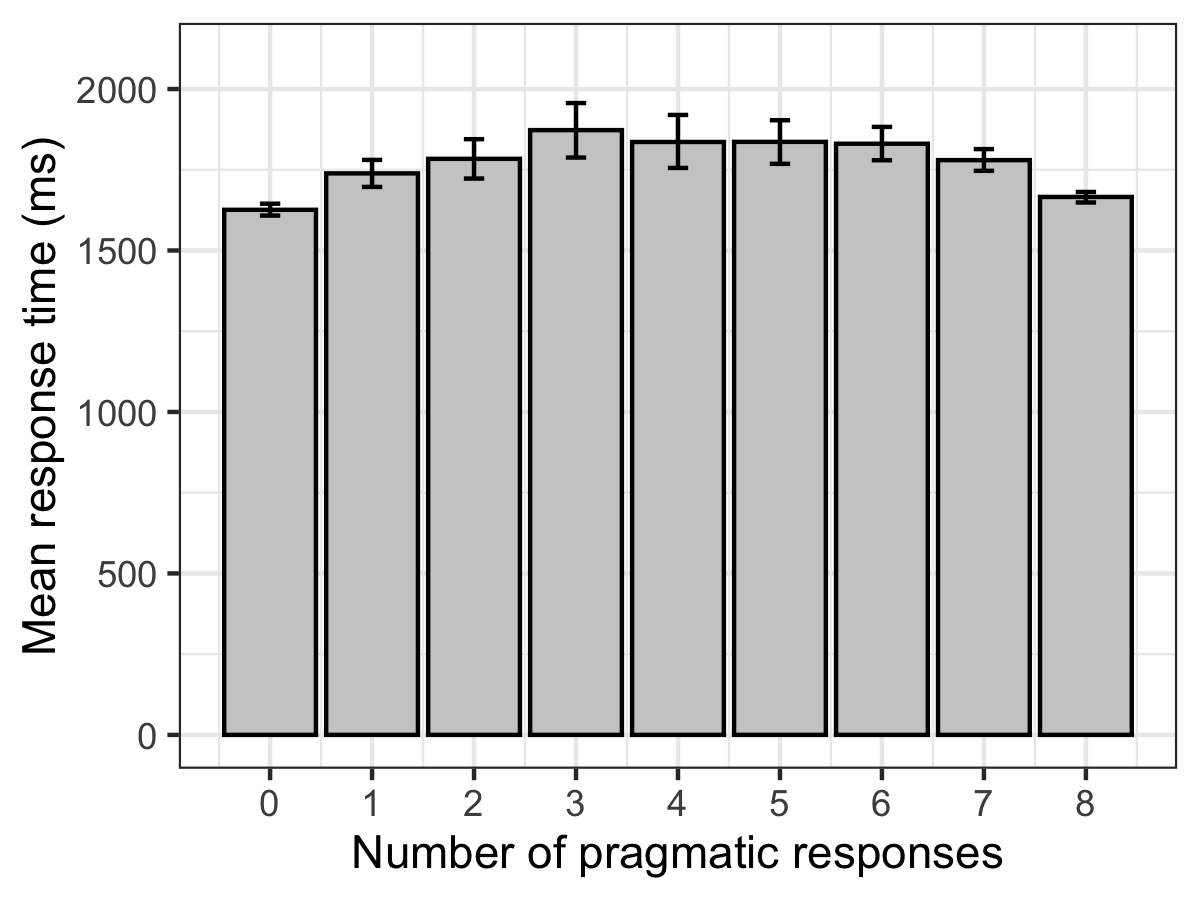
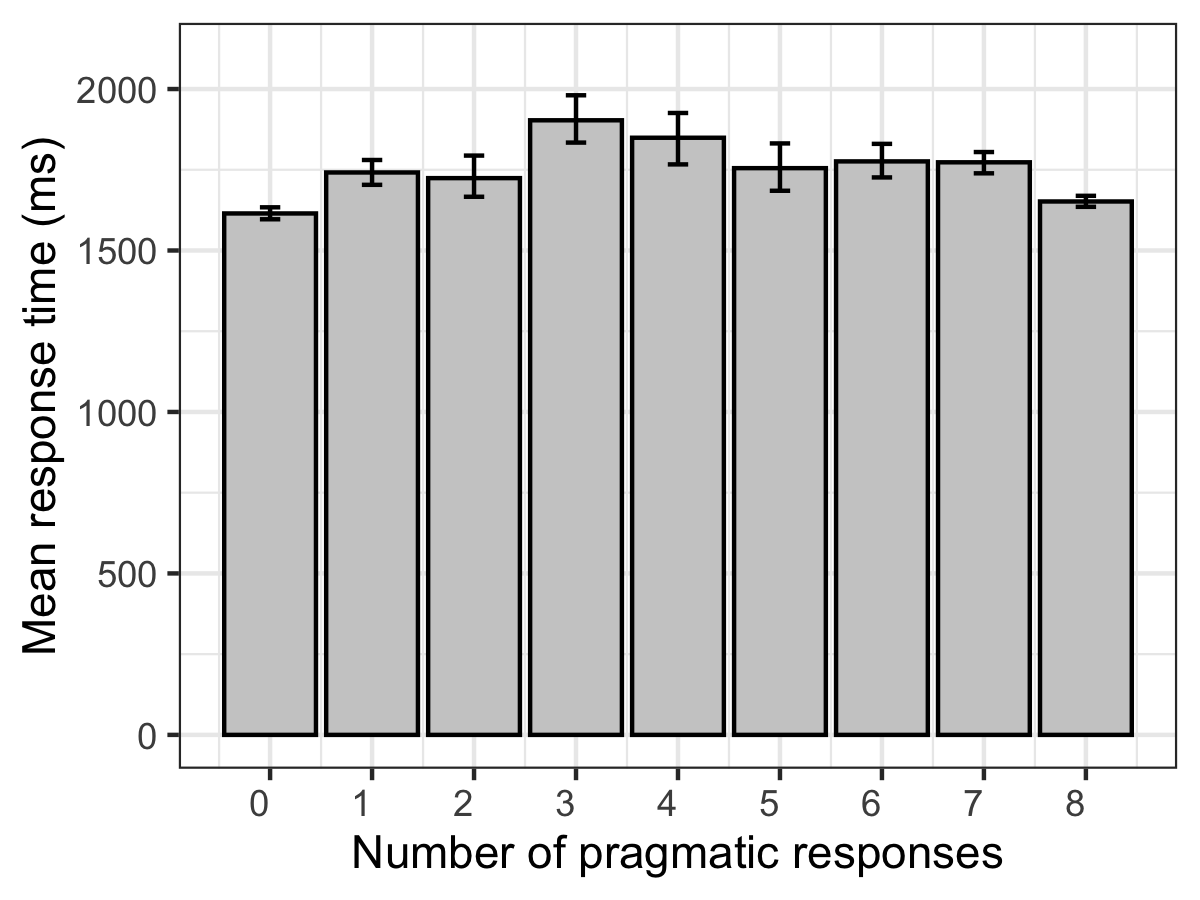
paper numbers updated

diff --git a/papers/cogsci2020/si_context_rt.tex b/papers/cogsci2020/si_context_rt.tex
@@ -61,10 +61,10 @@
 
 \title{Probability and processing speed of scalar inferences is context-dependent}
  
-% \author{{\large \textbf{Leyla Kursat}  {\normalfont and} \textbf{Judith Degen}}  \\
-%  \{lkursat, jdegen\}@stanford.edu \\
-%   Department of Linguistics, Stanford University \\
-%   Stanford, CA 94305, USA}
+\author{{\large \textbf{Leyla Kursat}  {\normalfont and} \textbf{Judith Degen}}  \\
+ \{lkursat, jdegen\}@stanford.edu \\
+  Department of Linguistics, Stanford University \\
+  Stanford, CA 94305, USA}
 
 %\author{{\large \textbf{names}}  \\
 % \{names\}@school\\
@@ -112,7 +112,6 @@ In both experiments, participants' interpretations were probed using the gumball
 Under the costly inference account, literal responses should always be faster than pragmatic responses, regardless of the contextual information participants are provided with. This is indeed the result reported by \citeNP{BottNoveck2004}. In contrast, under the constraint-based account, the more the context supports the inference (as measured in proportions of pragmatic responses), the faster participants should be to provide a pragmatic response and  the slower they should be to provide a literal response. Conversely, the weaker the contextual support for the inference, the slower the pragmatic response should be, and the faster the literal one. The strongest test of the constraint-based account would be evidenced in a response time pattern whereby pragmatic responses are faster than literal responses, which to our knowledge has not been previously demonstrated. Note an attractive feature of the constraint-based account: it links the processing effort involved in computing both pragmatic \emph{and} literal interpretations to the contextual support for the interpretation, rather than treating the processing of literal content as a monolith.
 
 
-
 \begin{figure}
 \centering
 \fbox{\includegraphics[width=.6\columnwidth]{./img/gumballs2.png}}
@@ -141,14 +140,8 @@ Under the costly inference account, literal responses should always be faster th
   
     
 In studies that use truth-value judgment tasks to probe scalar inferences, participants typically complete multiple critical trials of the kind described above \cite{NoveckPosada2003,BottNoveck2004,DegenTanenhaus2015,JasbiEtAl2019}. Participants don't always respond consistently across critical trials \cite<see>[for a detailed response consistency analysis]{DegenTanenhaus2015}, which has led researchers to categorize participants as either ``pragmatic'' or ``literal'' responders and conduct responder type analyses to investigate whether participants' varying response strategies result in varying processing strategies. For instance, \citeNP{DegenTanenhaus2016} found that pragmatic responders were more strongly affected by the experimental manipulation of number term presence than literal responders, who tended to wait for disambiguating information before fixating on target regions of the display. We include such post hoc responder type analyses in our response time analyses. Specifically, we treat responder type as an additional variable that may influence processing times by providing latent contextual support for one over another interpretation: if being a pragmatic responder increases the latent contextual support for the pragmatic response, these responses should be faster than literal responses; conversely for literal responders. 
-
   
-
-
 Within each experiment, we followed \citeNP{Degen2013} in manipulating contextual support for the inference via an experiment-level implicit QUD invoked by a cover story that either made the stronger alternative more relevant (\textit{all}-QUD condition, more support for scalar inference) or less relevant (\textit{any}-QUD condition, less support for scalar inference). 
-
-
-
 
 
 %Participants were assigned to one of the two conditions (\textit{all}-QUD, \textit{any}-QUD) which differed in the cover story they were presented with at the beginning of the experiment (see Table \ref{tab:coverstories}). 
@@ -185,10 +178,9 @@ Within each experiment, we followed \citeNP{Degen2013} in manipulating contextua
 
 In Exp.~1 we tested whether the QUD  modulates the probability of a scalar inference and whether the QUD and participants' responder type jointly modulate the speed with which pragmatic and literal interpretations are processed. Sentences on critical trials included \emph{some} in its partitive form, which has previously been shown to support the inference \cite{Degen2015}.
 
-Procedure, materials, analyses and exclusions were pre-registered on OSF and will be available upon publication along with data and experiment scripts.
+Procedure, materials, analyses and exclusions were pre-registered at https://osf.io/49uqm.
 
 
-    
 \subsection{Methods}
 
 \noindent \textbf{Participants.} We recruited 800 participants on Amazon's Mechanical Turk. Participants were required to have a US-based IP address and a minimal approval rating of 95\%. %They were paid \$2.30 (approximately \$14/hr). 
@@ -196,14 +188,9 @@ Procedure, materials, analyses and exclusions were pre-registered on OSF and wil
 \noindent \textbf{Materials and procedure.} On each trial, participants saw a display of a gumball machine with 13 gumballs in the upper chamber and an empty lower chamber. After 4 seconds, some number of gumballs moved to the lower chamber (Fig.~\ref{fig:gumball-paradigm}) and a voice reported how many gumballs were distributed. Participants' task was to indicate whether they `agree' or `disagree' with the statement by pressing the F or J key as quickly as possible. The pre-recorded statement was of the form \emph{You got X gumballs}, where X was a quantifier (\textit{some of the},  \textit{all of the}, \textit{none of the}, or a number between 1 and 13). The quantifier and the number of gumballs that dropped to the lower chamber varied.
   
 Before proceeding to the main body of the experiment, participants read a cover story to induce an implicit QUD (see Table \ref{tab:coverstories} for cover stories). They completed a scripted demonstration that introduced a gumball store worker who will be fired if he either fails to re-fill a gumball machine when it's empty (\emph{all}-QUD condition) or if he fails to fix a machine if it's not dispensing gumballs (\emph{any}-QUD condition). To ensure that participants paid attention to the cover story, they were asked a multiple-choice question about the condition under which the store worker will be fired. If participants answered this question incorrectly, they were presented with the cover story again and repeated the demonstration. Halfway through the experiment, participants were asked to answer the multiple-choice question again. This was done to prevent the decay of the implicit QUD over time.  
-  
-
-
-
+ 
 
 There were 4 practice trials with \textit{all} and \textit{none}. On half of these trials, the statements were correct and on the other half they were incorrect. After the practice trials, participants completed 72 experimental trials (see Table \ref{tab:stimuli}). On 32   trials, the expected answer was `agree', on another 32 trials, the expected answer was `disagree'. The remaining 8 trials were  critical trials on which all 13 gumballs dropped to the lower chamber and participants heard the partitive scalar statement \emph{You got some of the gumballs}. To reiterate, if participants pressed J to agree with the statement, they interpreted it literally; if they pressed F to disagree, they interpreted it pragmatically.
-
-
 
 
   \begin{table}
@@ -223,7 +210,7 @@ There were 4 practice trials with \textit{all} and \textit{none}. On half of the
   \end{table}
   
   
-\noindent \textbf{Exclusions.} We excluded participants who were self-reported non-native English speakers (n=26), participants who incorrectly answered the second comprehension question more than twice (n=21) and participants with accuracy lower than 85\% on non-critical trials (n=185). Only responses to critical trials are reported below. These exclusions had no qualitative effect on the results discussed below.
+\noindent \textbf{Exclusions.} We excluded participants who were self-reported non-native English speakers (n=20), participants who incorrectly answered the second comprehension question more than twice (n=17) and participants with accuracy lower than 85\% on non-critical trials (n=235). Only responses to critical trials are reported below. These exclusions had no qualitative effect on the results discussed below.
 
 %\noindent \textbf{Analysis and predictions} Only responses on critical trials were  analyzed here and in Exp.~2. We conducted three types of analyses to address the two questions of interest. 
 %\begin{enumerate}
@@ -239,8 +226,7 @@ There were 4 practice trials with \textit{all} and \textit{none}. On half of the
 \subsection{Results and discussion}
 
 
-
-\noindent \textbf{Judgments.} Proportion of pragmatic responses on critical trials are shown on the left in Figure~\ref{fig:judgments}. We observed a main effect of QUD such that there were more pragmatic responses in the \textit{all}-QUD condition (78\%) compared to the \textit{any}-QUD condition (71\%, $\beta$=1.31, SE=0.52, p$<$.05), replicating previous QUD effects on scalar inference \cite{DegenGoodman2014,Zondervan2010}. 
+\noindent \textbf{Judgments.} Proportion of pragmatic responses on critical trials are shown on the left in Figure~\ref{fig:judgments}. We observed a main effect of QUD such that there were more pragmatic responses in the \textit{all}-QUD condition (78\%) compared to the \textit{any}-QUD condition (70\%, $\beta$=1.27, SE=0.53, p$<$.05), replicating previous QUD effects on scalar inference \cite{DegenGoodman2014,Zondervan2010}. 
 
 
 \begin{figure}
@@ -249,7 +235,7 @@ There were 4 practice trials with \textit{all} and \textit{none}. On half of the
   \caption{Proportion of pragmatic responses on partitive \emph{some of} (Exp.~1, left) and non-partitive \emph{some} (right, Exp.~2) critical trials. Error bars indicate bootstrapped 95\% confidence intervals. \label{fig:judgments}}
   \end{figure}
 
-\noindent \textbf{Analysis of variability in judgments.} The top panel of \figref{fig:proportion} shows the distribution of participants over number of pragmatic responses given on critical trials. Participants who either gave 0 or 8 pragmatic responses were completely consistent in their responses (62\%, of which 20\% completely literal and 80\% completely pragmatic). \figref{fig:proportion} reflects \figref{fig:judgments} and shows that the distribution of pragmatic responses in the \emph{all}-QUD condition is shifted towards the more pragmatic end of the continuum compared to the \emph{any}-QUD condition. Thus, while some participants were entirely consistent, there was also substantial inter-participant variability in consistency. For the purpose of the subsequent response time analyses, and following previous researchers \cite{BottNoveck2004,DegenTanenhaus2015}, we divided participants into two groups:  participants with more than 4 pragmatic responses were categorized as \emph{pragmatic} responders (74\%) and participants with fewer than 4 pragmatic responses were categorized as \emph{literal} responders (22\%). 15 participants (3\%) gave an equal number of pragmatic and literal responses and were excluded from the response time analysis.
+\noindent \textbf{Analysis of variability in judgments.} The top panel of \figref{fig:proportion} shows the distribution of participants over number of pragmatic responses given on critical trials. Participants who either gave 0 or 8 pragmatic responses were completely consistent in their responses (60\%, of which 19\% completely literal and 81\% completely pragmatic). \figref{fig:proportion} reflects \figref{fig:judgments} and shows that the distribution of pragmatic responses in the \emph{all}-QUD condition is shifted towards the more pragmatic end of the continuum compared to the \emph{any}-QUD condition. Thus, while some participants were entirely consistent, there was also substantial inter-participant variability in consistency. For the purpose of the subsequent response time analyses, and following previous researchers \cite{BottNoveck2004,DegenTanenhaus2015}, we divided participants into two groups:  participants with more than 4 pragmatic responses were categorized as \emph{pragmatic} responders (73\%) and participants with fewer than 4 pragmatic responses were categorized as \emph{literal} responders (23\%). 18 participants (3\%) gave an equal number of pragmatic and literal responses and were excluded from the response time analysis.
 
 
 \begin{figure}
@@ -259,7 +245,8 @@ There were 4 practice trials with \textit{all} and \textit{none}. On half of the
 \end{figure}
 
   
-\noindent \textbf{Response times.} Response times are shown in the top panels of \figref{fig:responsetimes}. We observed an interaction between QUD and response ($\beta$=-0.12, $SE$=0.03, $t$=-3.80, $p$$<$.0001). Simple effects analysis revealed that this interaction was driven by pragmatic responses being slower than literal responses under the \textit{any}-QUD ($\beta$=0.16, SE=0.04, t=4.26, p$<$.0001), while there was no difference in response times under the \textit{all}-QUD ($\beta$=-0.01, SE=0.04, t=-0.37, p$<$.72). We also observed an interaction between responder type and response ($\beta$=-0.27, SE=0.03, t=-8.14, p$<$.0001). Simple effects analysis revealed that this interaction was driven by pragmatic responses being faster than literal responses for \emph{pragmatic}  responders ($\beta$=-0.14, SE=0.04, t=-5.15, p$<$.0001) and pragmatic responses being slower than literal responses for \emph{literal} responders ($\beta$=0.16, SE=0.02, t=4.22, p$<$.0001). 
+\noindent \textbf{Response times.} Response times are shown in the top panels of \figref{fig:responsetimes}. We observed an interaction between QUD and response ($\beta$=-8.16, $SE$=3.40, $t$=-2.40, $p$$<$.05). Simple effects analysis revealed that this interaction was driven by pragmatic responses being slower than literal responses under the \textit{any}-QUD ($\beta$=6.70, SE=3.38, t=1.98, p$<$.05), while there was no difference in response times under the \textit{all}-QUD ($\beta$=-1.44, SE=3.59, t=3.75, p$<$.69). We also observed an interaction between responder type and response ($\beta$=-2.37, SE=3.25, t=-7.29, p$<$.0001). 
+Simple effects analysis revealed that this interaction was driven by pragmatic responses being faster than literal responses for \emph{pragmatic}  responders ($\beta$=-1.69, SE=3.07, t=-5.53, p$<$.0001) and pragmatic responses being slower than literal responses for \emph{literal} responders ($\beta$=6.70, SE=3.38, t=1.98, p$<$.05). 
 
 These results provide evidence against the costly inference account: rather than pragmatic responses being generally slower than literal responses, they were only so when given by literal responders or when given in response to the \emph{any}-QUD, which was found to provide less contextual support for the inference than the \emph{all}-QUD. Moreover, these results also excitingly show that pragmatic responses can even be faster than literal responses under certain conditions, namely when produced by pragmatic responders. These results are consistent with the constraint-based account. To test whether the contextual effects remain stable when overall decreasing the contextual support for the inference, we conducted Exp.~2.
 
@@ -274,7 +261,7 @@ Exp.~2 was identical to Exp.~1, with the exception that the sentence on critical
 
 \noindent \textbf{Materials and procedure.} The materials and procedure were identical to Exp.~1 except on critical trials, where participants heard the non-partitive statement \emph{You got some gumballs}.
 
-\noindent \textbf{Exclusions.} As in Exp.~1, we excluded non-native English speakers (n=21), participants who got the second comprehension question wrong more than twice (n=15), and participants that had accuracy lower than 85\% on non-critical trials (n=189).
+\noindent \textbf{Exclusions.} As in Exp.~1, we excluded non-native English speakers (n=19), participants who got the second comprehension question wrong more than twice (n=29), and participants that had accuracy lower than 85\% on non-critical trials (n=217).
 
 
 \begin{figure}
@@ -286,14 +273,22 @@ Exp.~2 was identical to Exp.~1, with the exception that the sentence on critical
 
 \subsection{Results}
 
-\noindent \textbf{Judgments.} Proportion of pragmatic responses on critical trials are shown on the right in Figure~\ref{fig:judgments}. We replicated the QUD effect found in Exp.~1: participants in the \textit{all}-QUD condition gave more pragmatic "disagree" responses (48\%) than participants in the \textit{any}-QUD condition (30\%, $\beta$=4.69, SE=0.80, p$<$.0001). However, as is evident from \figref{fig:proportion}, the rate of pragmatic responses was greatly reduced overall compared to Exp.~1. This was borne out in a mixed effects logistic regression where the data from both experiments was  pooled and sentence form added as a fixed effect predictor ($\beta$=7.16, SE=0.69, p$<$.0001), replicating previous studies \cite{DegenTanenhaus2015,Degen2015}.
+\noindent \textbf{Judgments.} Proportion of pragmatic responses on critical trials are shown on the right in Figure~\ref{fig:judgments}. We replicated the QUD effect found in Exp.~1: participants in the \textit{all}-QUD condition gave more pragmatic "disagree" responses (48\%) than participants in the \textit{any}-QUD condition (30\%, $\beta$=3.07, SE=0.63, p$<$.0001). However, as is evident from \figref{fig:proportion}, the rate of pragmatic responses was greatly reduced overall compared to Exp.~1. This was borne out in a mixed effects logistic regression where the data from both experiments was  pooled and sentence form added as a fixed effect predictor ($\beta$=5.89, SE=0.55, p$<$.0001), replicating previous studies \cite{DegenTanenhaus2015,Degen2015}. 
 
 
-\noindent \textbf{Analysis of variability in judgments.} The bottom panel of \figref{fig:proportion} shows the distribution of participants over number of pragmatic responses given on critical trials. Reflecting the average changes in  Fig~\ref{fig:proportion}, overall and in the \emph{any}-QUD condition, the distribution of  responses shifted towards the more literal end of the continuum compared to Exp.~1 and the \emph{all}-QUD condition.  44\% of participants were completely consistent in providing pragmatic responses compared to 20\% of participants who consistently responded literally. Overall, 37\% of participants were categorized as pragmatic responders and 60\% as literal responders. 15 participants (3\%) were excluded from the response time analysis because they gave equal number of pragmatic and literal responses.
+\noindent \textbf{Analysis of variability in judgments.} The bottom panel of \figref{fig:proportion} shows the distribution of participants over number of pragmatic responses given on critical trials. Reflecting the average changes in  Fig~\ref{fig:proportion}, overall and in the \emph{any}-QUD condition, the distribution of  responses shifted towards the more literal end of the continuum compared to Exp.~1 and the \emph{all}-QUD condition.  22\% of participants were completely consistent in providing pragmatic responses compared to 40\% of participants who consistently responded literally. Overall, 38\% of participants were categorized as pragmatic responders and 58\% as literal responders. 16 participants (3\%) were excluded from the response time analysis because they gave equal number of pragmatic and literal responses.
 
-\noindent \textbf{Response times.} Response times are shown in the bottom panels of \figref{fig:responsetimes}. We closely replicated the results from Exp.~1, both qualitatiively and quantiatively. In particular, we observed an interaction between QUD and response ($\beta$=-0.07, $SE$=0.03, $t$=-2.14, $p$$<$.05). Simple effects analysis revealed that this interaction was driven by pragmatic responses being slower than literal responses under the \textit{any}-QUD ($\beta$=0.08, SE=0.03, t=2.75, p$<$.007), while there was no difference in response times under the \textit{all}-QUD ($\beta$=0.03, SE=0.03, t=1.12, p$<$.27). We also observed an interaction between responder type and response ($\beta$=-0.27, SE=0.03, t=-8.38, p$<$.0001). Simple effects analysis revealed that this interaction was driven by pragmatic responses being faster than literal responses for \emph{pragmatic}  responders ($\beta$=-0.16, SE=0.03, t=-4.91, p$<$.0001) and pragmatic responses being slower than literal responses for \emph{literal} responders ($\beta$=0.09, SE=0.03, t=2.75, p$<$.007). 
+\noindent \textbf{Response times.} \lk{these effects are not significant anymore} Response times are shown in the bottom panels of \figref{fig:responsetimes}. We closely replicated the results from Exp.~1, both qualitatiively and quantiatively. In particular, we observed an interaction between QUD and response ($\beta$=-0.07, $SE$=0.03, $t$=-2.14, $p$$<$.05). Simple effects analysis revealed that this interaction was driven by pragmatic responses being slower than literal responses under the \textit{any}-QUD ($\beta$=0.08, SE=0.03, t=2.75, p$<$.007), while there was no difference in response times under the \textit{all}-QUD ($\beta$=0.03, SE=0.03, t=1.12, p$<$.27). We also observed an interaction between responder type and response ($\beta$=-0.27, SE=0.03, t=-8.38, p$<$.0001). Simple effects analysis revealed that this interaction was driven by pragmatic responses being faster than literal responses for \emph{pragmatic}  responders ($\beta$=-0.16, SE=0.03, t=-4.91, p$<$.0001) and pragmatic responses being slower than literal responses for \emph{literal} responders ($\beta$=0.09, SE=0.03, t=2.75, p$<$.007). 
 
 It would have been interesting to assess the effect of the partitive form on response times across the two experiments -- if the strong version of the constraint-based is right, the partitive should lead to faster pragmatic responses than the non-partitive form. Unfortunately, directly comparing the response time results from Exps.~1 and 2 is not  possible because of the different overall lengths of the audio files, which is reflected in the response times (partitive utterances were on average 132ms longer than non-partitive ones).
+
+\begin{figure}
+  \centering
+    \includegraphics[width=\columnwidth]{plots/consistency}
+    \caption{\lk{new plot} Response time as a function of response consistency.}
+    \label{fig:consistency}
+  \end{figure}
+
 %In order to compare the response times of participants from Exp.~1 and 2, we had to calculate each response time with respect to the length of the audio stimuli participants heard. For each experiment, we subtracted the length of the onset of the word "gumball" (Exp.~1: 868ms, Exp.~2: 736ms) from all response times. This ensured that response times \lk{XXX}. We were interested in whether the lack of the partitive would slow down pragmatic responses and speed up literal responses compared to its partitive counterpart. We analyzed the data using a mixed effects linear regression model with by-participant intercepts to predict log-transformed response times. The model included centered fixed effects of quantifier and response. We found a significant interaction between quantifier and response such that ($\beta$=-0.10, SE=0.04, t=2.48 p$<$.05) \lk{explain}
 
 %\lk{We weren't able to replicate the QUD effect on the speed of scalar inferences when the non-partitive form was used.} \jd{when i run the analyses everything comes out the same as in exp 1}
@@ -306,8 +301,7 @@ It would have been interesting to assess the effect of the partitive form on res
 
 \section{General discussion and conclusion}
 
-The issue of whether or not scalar inferences generally incur a processing cost has been the subject of much debate. Here we have added an additional data point against costly inference accounts: we have identified contextual conditions under which pragmatic responses are provided more quickly than literal responses, to our knowledge the first time the reversal of this classic response time pattern has been shown. We have also replicated previous findings showing that both a QUD that makes the stronger alternative more contextually relevant and the presence of the partitive increase the rate of scalar inferences. Under the strong constraint-based prediction, response times associated with the literal and pragmatic interpretation should have been directly related to the amount of contextual support they received. Instead, rather than finding a decrease/increase in response times for pragmatic responses under the \emph{all/any}-QUD compared to literal responses, respectively, we observed the predicted difference in pragmatic and literal response times only in the \emph{any}-QUD condition. However, the strongest effect on response times was the interaction between responder type and response. That pragmatic responders generally provided faster pragmatic than literal responses and vice versa for literal responders suggests that, rather than directly affecting response times, contextual cues to pragmatic meaning may guide listeners' overall expectations for likely meanings, which in turn affect how much processing effort -- and consequently, response time -- must be invested to arrive at a particular response. We thus interpret these results as further limited evidence for constraint-based accounts of pragmatic processing. The complex causal links between contextual cues to meaning and inferential processing effort require further investigation, but it is clear from this and previous work that treating scalar inferences as monoliths with a particular associated inferential effort is unlikely to yield a satisfying theory of pragmatic processing.
-
+The issue of whether or not scalar inferences generally incur a processing cost has been the subject of much debate. Here we have added an additional data point against costly inference accounts: we have identified contextual conditions under which pragmatic responses are provided more quickly than literal responses, to our knowledge the first time the reversal of this classic response time pattern has been shown. We have also replicated previous findings showing that both a QUD that makes the stronger alternative more contextually relevant sand the presence of the partitive increase the rate of scalar inferences. Under the strong constraint-based prediction, response times associated with the literal and pragmatic interpretation should have been directly related to the amount of contextual support they received. Instead, rather than finding a decrease/increase in response times for pragmatic responses under the \emph{all/any}-QUD compared to literal responses, respectively, we observed the predicted difference in pragmatic and literal response times only in the \emph{any}-QUD condition. However, the strongest effect on response times was the interaction between responder type and response. That pragmatic responders generally provided faster pragmatic than literal responses and vice versa for literal responders suggests that, rather than directly affecting response times, contextual cues to pragmatic meaning may guide listeners' overall expectations for likely meanings, which in turn affect how much processing effort -- and consequently, response time -- must be invested to arrive at a particular response. We thus interpret these results as further limited evidence for constraint-based accounts of pragmatic processing. The complex causal links between contextual cues to meaning and inferential processing effort require further investigation, but it is clear from this and previous work that treating scalar inferences as monoliths with a particular associated inferential effort is unlikely to yield a satisfying theory of pragmatic processing.
 
 
 %\begin{figure}
